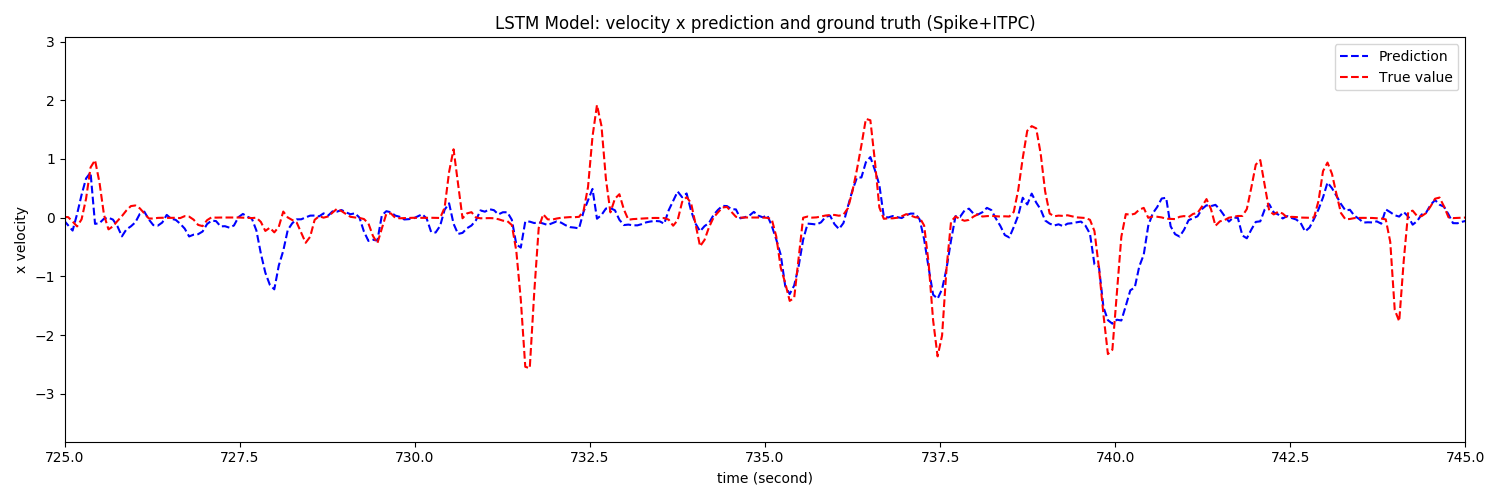
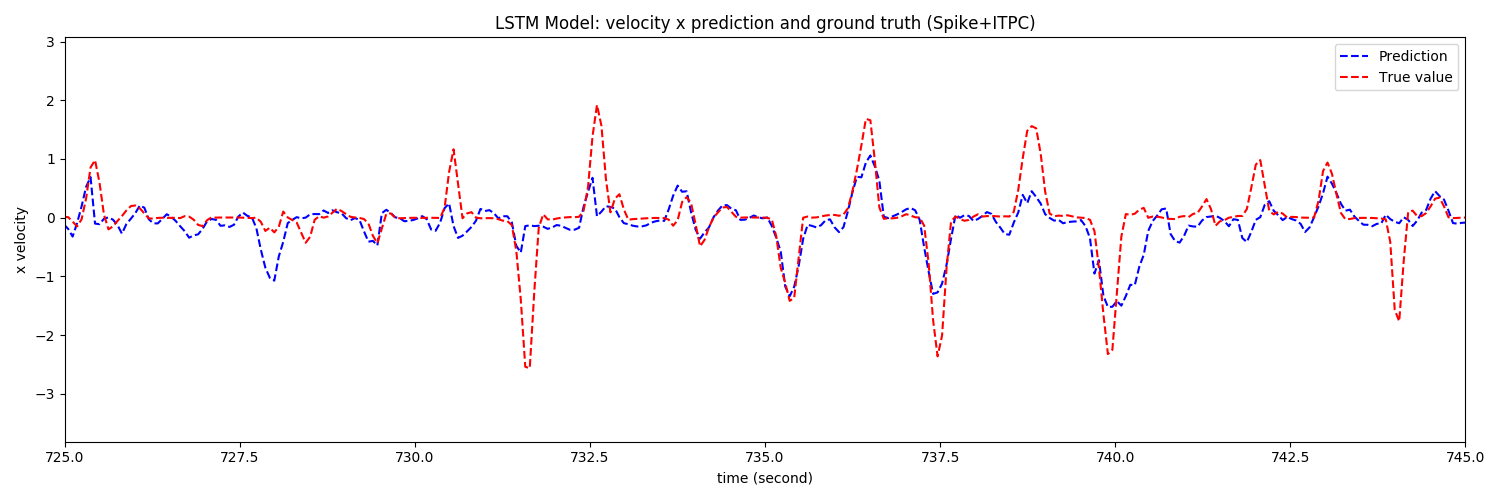
fix error

diff --git a/Python_code/Pytorch/ITPC/ITPC_LSTM.py b/Python_code/Pytorch/ITPC/ITPC_LSTM.py
@@ -306,17 +306,21 @@ testing_itpc_angle=torch.from_numpy(iptc_angle_testing)
 testing_itpc_abs=testing_itpc_abs.float()
 testing_itpc_angle=testing_itpc_angle.float()
 
-testing_itpc=np.concatenate((testing_itpc_abs, testing_itpc_angle), axis=1)
-testing_itpc=torch.from_numpy(testing_itpc)
+
 
 print(training_itpc_abs.size(), ' ',training_x.size() )
 print(testing_itpc_abs.size(), ' ',testing_x.size() )
-length_difference=testing_x.size()[0]-testing_itpc_abs.size()[0]
+length_difference=abs(testing_x.size()[0]-testing_itpc_abs.size()[0])
 print(length_difference)
-print(testing_itpc_abs.size(), ' ',testing_x[:-length_difference,:].size() )
 
-testing_x=testing_x[:-length_difference,:]
-testing_y=testing_y[:-length_difference,:]
+if length_difference !=0:
+    print(testing_itpc_abs.size(), ' ',testing_x[:,:].size() )
+
+    testing_itpc_abs=testing_itpc_abs[:-length_difference,:]
+    testing_itpc_angle=testing_itpc_angle[:-length_difference,:]
+
+testing_itpc=np.concatenate((testing_itpc_abs, testing_itpc_angle), axis=1)
+testing_itpc=torch.from_numpy(testing_itpc)
 
 print(testing_itpc_abs.size(), ' ', testing_y.size())
 
@@ -326,27 +330,27 @@ print('new_training_x= ', new_training_x.size())
 
 new_testing_x=torch.cat((testing_x, testing_itpc), 1)
 
-
+'''
 for _ in range(training_x.size(0)):
     for i in range(96):
-        pass
-        # training_x[:,i]=training_x[:,i]*training_x[:,-1]*training_x[:,-2]
+        # pass
+        training_x[:,i]=training_x[:,i]*training_x[:,-1]*training_x[:,-2]
 
 for _ in range(testing_x.size(0)):
     for i in range(96):
-        pass
-        # testing_x[:,i]=testing_x[:,i]*testing_x[:,-1]*testing_x[:,-2]
+        # pass
+        testing_x[:,i]=testing_x[:,i]*testing_x[:,-1]*testing_x[:,-2]
 
 
 training_x=training_x[:,:96]
 testing_x=testing_x[:,:96]
-
+'''
 
 # Neural Network
 batch_size = 16
 learning_rate=1e-3
 n_iters = 50000
-max_epoch=200
+max_epoch=300
 
 # LSTM
 hidden_dim=100
@@ -567,7 +571,7 @@ print('\n* model_x_velocity score in order ', order_index, ': ', r2_score( real_
 
 x_velocity_predict=my_prediction
 plot.figure(figsize=(15,5))
-plot.plot(time_stamp_64ms[testing_data_index:-1-length_difference], x_velocity_predict, 'b--',label='Prediction' )
+plot.plot(time_stamp_64ms[testing_data_index:-1], x_velocity_predict, 'b--',label='Prediction' )
 plot.plot(time_stamp_64ms[testing_data_index:-2], x_velocity_label[testing_data_index:-1], 'r--', label='True value')
 plot.legend(loc='upper right')
 plot.title('LSTM Model: velocity x prediction and ground truth (Spike+ITPC)')

diff --git a/Python_code/Signal_Processing/Inter-Channel_Clustering_Preprocess/nwb_ITPC_csv_to_mat_ITPC_csv_96_Channels_0_5-40Hz.py b/Python_code/Signal_Processing/Inter-Channel_Clustering_Preprocess/nwb_ITPC_csv_to_mat_ITPC_csv_96_Channels_0_5-40Hz.py
@@ -87,7 +87,7 @@ for nwb_loop_index, (chunk_new_nwb_time_stamp, chunk_High_angle, chunk_High_abs)
         print('last= ', chunk_new_nwb_time_stamp[-1], '\n')
 
         if chunk_new_nwb_time_stamp[-1]<target:
-            skip=mat_loop_index-1
+            skip=mat_loop_index
             break
 
         # if chunk_new_nwb_time_stamp[0]>target:
@@ -96,13 +96,22 @@ for nwb_loop_index, (chunk_new_nwb_time_stamp, chunk_High_angle, chunk_High_abs)
         # print('shape of chunk_new_nwb_time_stamp: ', chunk_new_nwb_time_stamp.shape, '\n')
         chunk_index=np.where( np.logical_and(target>chunk_new_nwb_time_stamp[:,0], target-delta<chunk_new_nwb_time_stamp[:,0] ))
         # print(type(chunk_index[0]))
+        if chunk_index[0].size==0:
+            # breakpoint() # TODO explain this
+            chunk_index=np.where( target<chunk_new_nwb_time_stamp[:,0] )
+
         if chunk_index[0].size>0:
+            
+
+            # if chunk_index[0].size>1:
+            #     print(chunk_index[0])
+            #     breakpoint()
 
             # print('chunk_index= ', chunk_index, ' \nchunk_new_nwb_time_stamp value=', chunk_new_nwb_time_stamp[chunk_index], '\nchunk_High_angle value=',chunk_High_angle[chunk_index], '\nchunk_High_abs value=',chunk_High_abs[chunk_index] ,'\n')
             
             nwb_timestamp_to_mat_timestamp.append(target)
-            ITPC_abs_250Hz.append(chunk_High_abs[chunk_index][0][0])
-            ITPC_angle_250Hz.append(chunk_High_angle[chunk_index][0][0])
+            ITPC_abs_250Hz.append(chunk_High_abs[chunk_index[0][0]])
+            ITPC_angle_250Hz.append(chunk_High_angle[chunk_index[0][0]])
 
 
 

diff --git a/Python_code/Signal_Processing/Inter-Channel_Clustering_Preprocess/Raw_Data_to_nwb_ITPC_csv_96_Channels_0_5-40Hz.py b/Python_code/Signal_Processing/Inter-Channel_Clustering_Preprocess/Raw_Data_to_nwb_ITPC_csv_96_Channels_0_5-40Hz.py
@@ -54,13 +54,16 @@ mat_timestamp=np.array(mat_timestamp)
 print('YEEE shape of mat_timestamp', mat_timestamp.shape, '\n')
 
 start_second=math.floor(mat_timestamp[0][0])
-last_mat_timestep=math.floor(mat_timestamp[0][-1])
+last_mat_timestep=mat_timestamp[0][-1]
 end_second=start_second+plot_time_duration
 
 is_first_loop=True # Optimize write file system
+is_last_loop=False
 
-while(end_second<last_mat_timestep):
+while(is_last_loop==False):
 
+    if end_second>last_mat_timestep:
+        is_last_loop=True
 
     mat_time_interval=np.where(np.logical_and(mat_timestamp[0,:]>start_second, mat_timestamp[0,:]<end_second ) )
     # print('mat_timestamp np.where result = ', end='')
